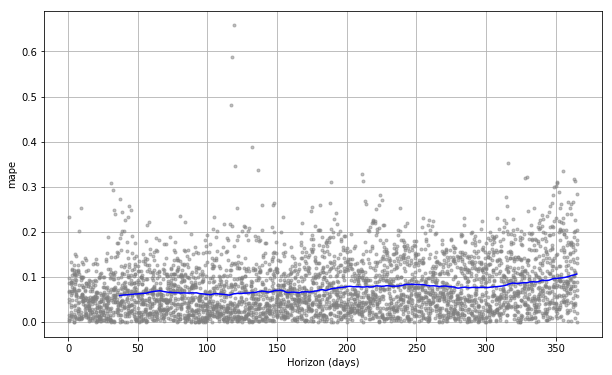
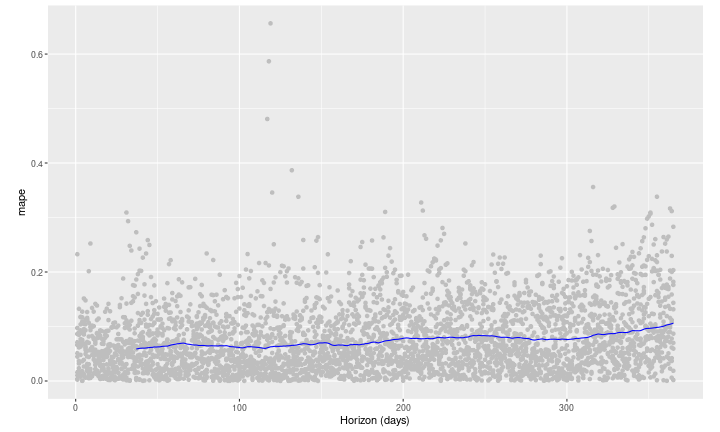
Fix artifacts in diagnostics nb markdown

diff --git a/docs/_docs/diagnostics.md b/docs/_docs/diagnostics.md
@@ -40,15 +40,11 @@ head(df.cv)
 # Python
 from fbprophet.diagnostics import cross_validation
 df_cv = cross_validation(m, initial='730 days', period='180 days', horizon = '365 days')
+```
+```python
+# Python
 df_cv.head()
 ```
-
-    HBox(children=(FloatProgress(value=0.0, max=11.0), HTML(value='')))
-
-
-    
-
-
 
 
 
@@ -83,8 +79,8 @@ df_cv.head()
       <th>0</th>
       <td>2010-02-16</td>
       <td>8.956828</td>
-      <td>8.479812</td>
-      <td>9.450908</td>
+      <td>8.460272</td>
+      <td>9.476844</td>
       <td>8.242493</td>
       <td>2010-02-15</td>
     </tr>
@@ -92,8 +88,8 @@ df_cv.head()
       <th>1</th>
       <td>2010-02-17</td>
       <td>8.723230</td>
-      <td>8.213162</td>
-      <td>9.217637</td>
+      <td>8.208639</td>
+      <td>9.222179</td>
       <td>8.008033</td>
       <td>2010-02-15</td>
     </tr>
@@ -101,8 +97,8 @@ df_cv.head()
       <th>2</th>
       <td>2010-02-18</td>
       <td>8.607021</td>
-      <td>8.119864</td>
-      <td>9.066214</td>
+      <td>8.106506</td>
+      <td>9.104792</td>
       <td>8.045268</td>
       <td>2010-02-15</td>
     </tr>
@@ -110,8 +106,8 @@ df_cv.head()
       <th>3</th>
       <td>2010-02-19</td>
       <td>8.528870</td>
-      <td>8.088676</td>
-      <td>9.024842</td>
+      <td>8.061701</td>
+      <td>9.024450</td>
       <td>7.928766</td>
       <td>2010-02-15</td>
     </tr>
@@ -119,8 +115,8 @@ df_cv.head()
       <th>4</th>
       <td>2010-02-20</td>
       <td>8.270872</td>
-      <td>7.740251</td>
-      <td>8.760655</td>
+      <td>7.773299</td>
+      <td>8.745526</td>
       <td>7.745003</td>
       <td>2010-02-15</td>
     </tr>
@@ -147,13 +143,6 @@ df.cv2 <- cross_validation(m, cutoffs = cutoffs, horizon = 365, units = 'days')
 cutoffs = pd.to_datetime(['2013-02-15', '2013-08-15', '2014-02-15'])
 df_cv2 = cross_validation(m, cutoffs=cutoffs, horizon='365 days')
 ```
-
-    HBox(children=(FloatProgress(value=0.0, max=3.0), HTML(value='')))
-
-
-    
-
-
 The `performance_metrics` utility can be used to compute some useful statistics of the prediction performance (`yhat`, `yhat_lower`, and `yhat_upper` compared to `y`), as a function of the distance from the cutoff (how far into the future the prediction was). The statistics computed are mean squared error (MSE), root mean squared error (RMSE), mean absolute error (MAE), mean absolute percent error (MAPE), median absolute percent error (MDAPE) and coverage of the `yhat_lower` and `yhat_upper` estimates. These are computed on a rolling window of the predictions in `df_cv` after sorting by horizon (`ds` minus `cutoff`). By default 10% of the predictions will be included in each window, but this can be changed with the `rolling_window` argument.
 
 
@@ -268,7 +257,7 @@ from fbprophet.plot import plot_cross_validation_metric
 fig = plot_cross_validation_metric(df_cv, metric='mape')
 ```
  
-![png](/prophet/static/diagnostics_files/diagnostics_15_0.png) 
+![png](/prophet/static/diagnostics_files/diagnostics_16_0.png) 
 
 
 The size of the rolling window in the figure can be changed with the optional argument `rolling_window`, which specifies the proportion of forecasts to use in each rolling window. The default is 0.1, corresponding to 10% of rows from `df_cv` included in each window; increasing this will lead to a smoother average curve in the figure. The `initial` period should be long enough to capture all of the components of the model, in particular seasonalities and extra regressors: at least a year for yearly seasonality, at least a week for weekly seasonality, etc.
